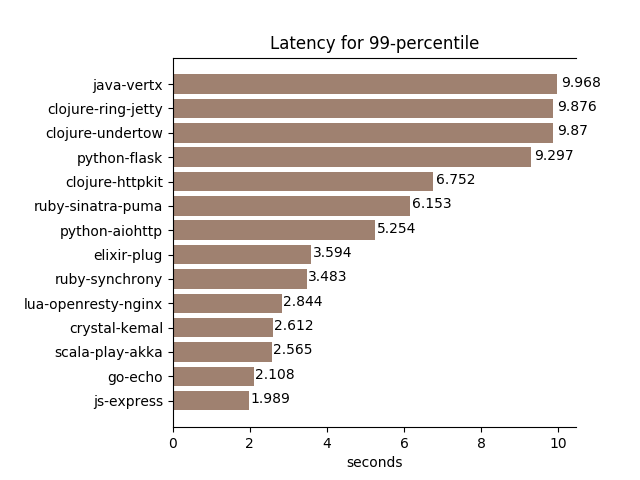
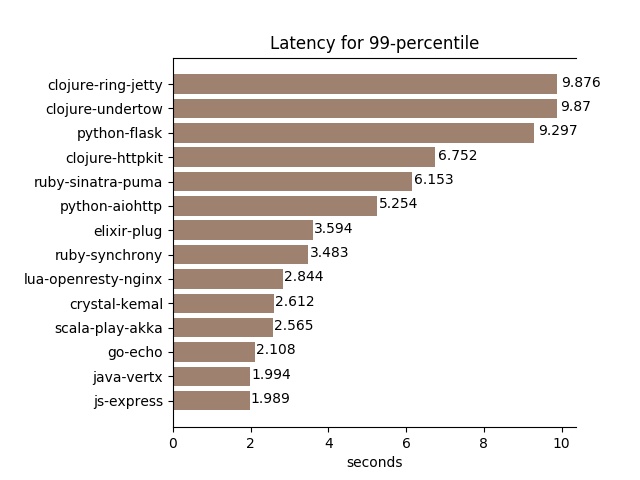
Add fixed benchmark results for vertx 2sec sleep

diff --git a/_results/benchmark-results-db-2sec.md b/_results/benchmark-results-db-2sec.md
@@ -286,7 +286,7 @@ Results:
 
 
 ==========================
-Date: Fri Mar 20 20:45:33 2020
+Date: Sat May  9 22:53:11 2020
 Results:
 
 | Param                           | Value |
@@ -294,15 +294,15 @@ Results:
 | Framework                       | java-vertx |
 | Endpoint                        | /db  |
 | Endpoint sleep sec. (if applicable) | 2.0  |
-| Requests/sec                    | 8.52 |
-| Req. Latency (Avg.)             | 7.88s |
-| Req. Latency (%'le - latency)   | [('50', '7.832'), ('70', '8.786'), ('90', '9.596'), ('99', '9.968'), ('99.9', '9.968'), ('99.999', '9.968')] |
+| Requests/sec                    | 232.75 |
+| Req. Latency (Avg.)             | 1.01s |
+| Req. Latency (%'le - latency)   | [('50', '1.009'), ('70', '1.409'), ('90', '1.808'), ('99', '1.994'), ('99.9', '2.053'), ('99.999', '2.262')] |
 | 5xx/4xx responses               | 0 |
-| N timeout-ed                    | 1977  |
-| Memory used (mean), Mib         | 106 |
-| Memory used samples, Mib        | [105, 105, 107, 107, 107] |
-| CPU used (mean), %              | 1 |
-| CPU used samples, %             | [0.0, 0.0, 6.7, 0.0, 0.0] |
+| N timeout-ed                    | 0  |
+| Memory used (mean), Mib         | 117 |
+| Memory used samples, Mib        | [117, 117, 117, 117, 117] |
+| CPU used (mean), %              | 48 |
+| CPU used samples, %             | [52.6, 58.8, 44.4, 44.4, 42.1] |
 | Test command                    | wrk -t12 -c400 -d240s http://localhost:8080/db -s wrk_report.lua --timeout 10s  |
-| Data read                       | 58.63MB  |
+| Data read                       | 1.57GB  |
 ==========================
